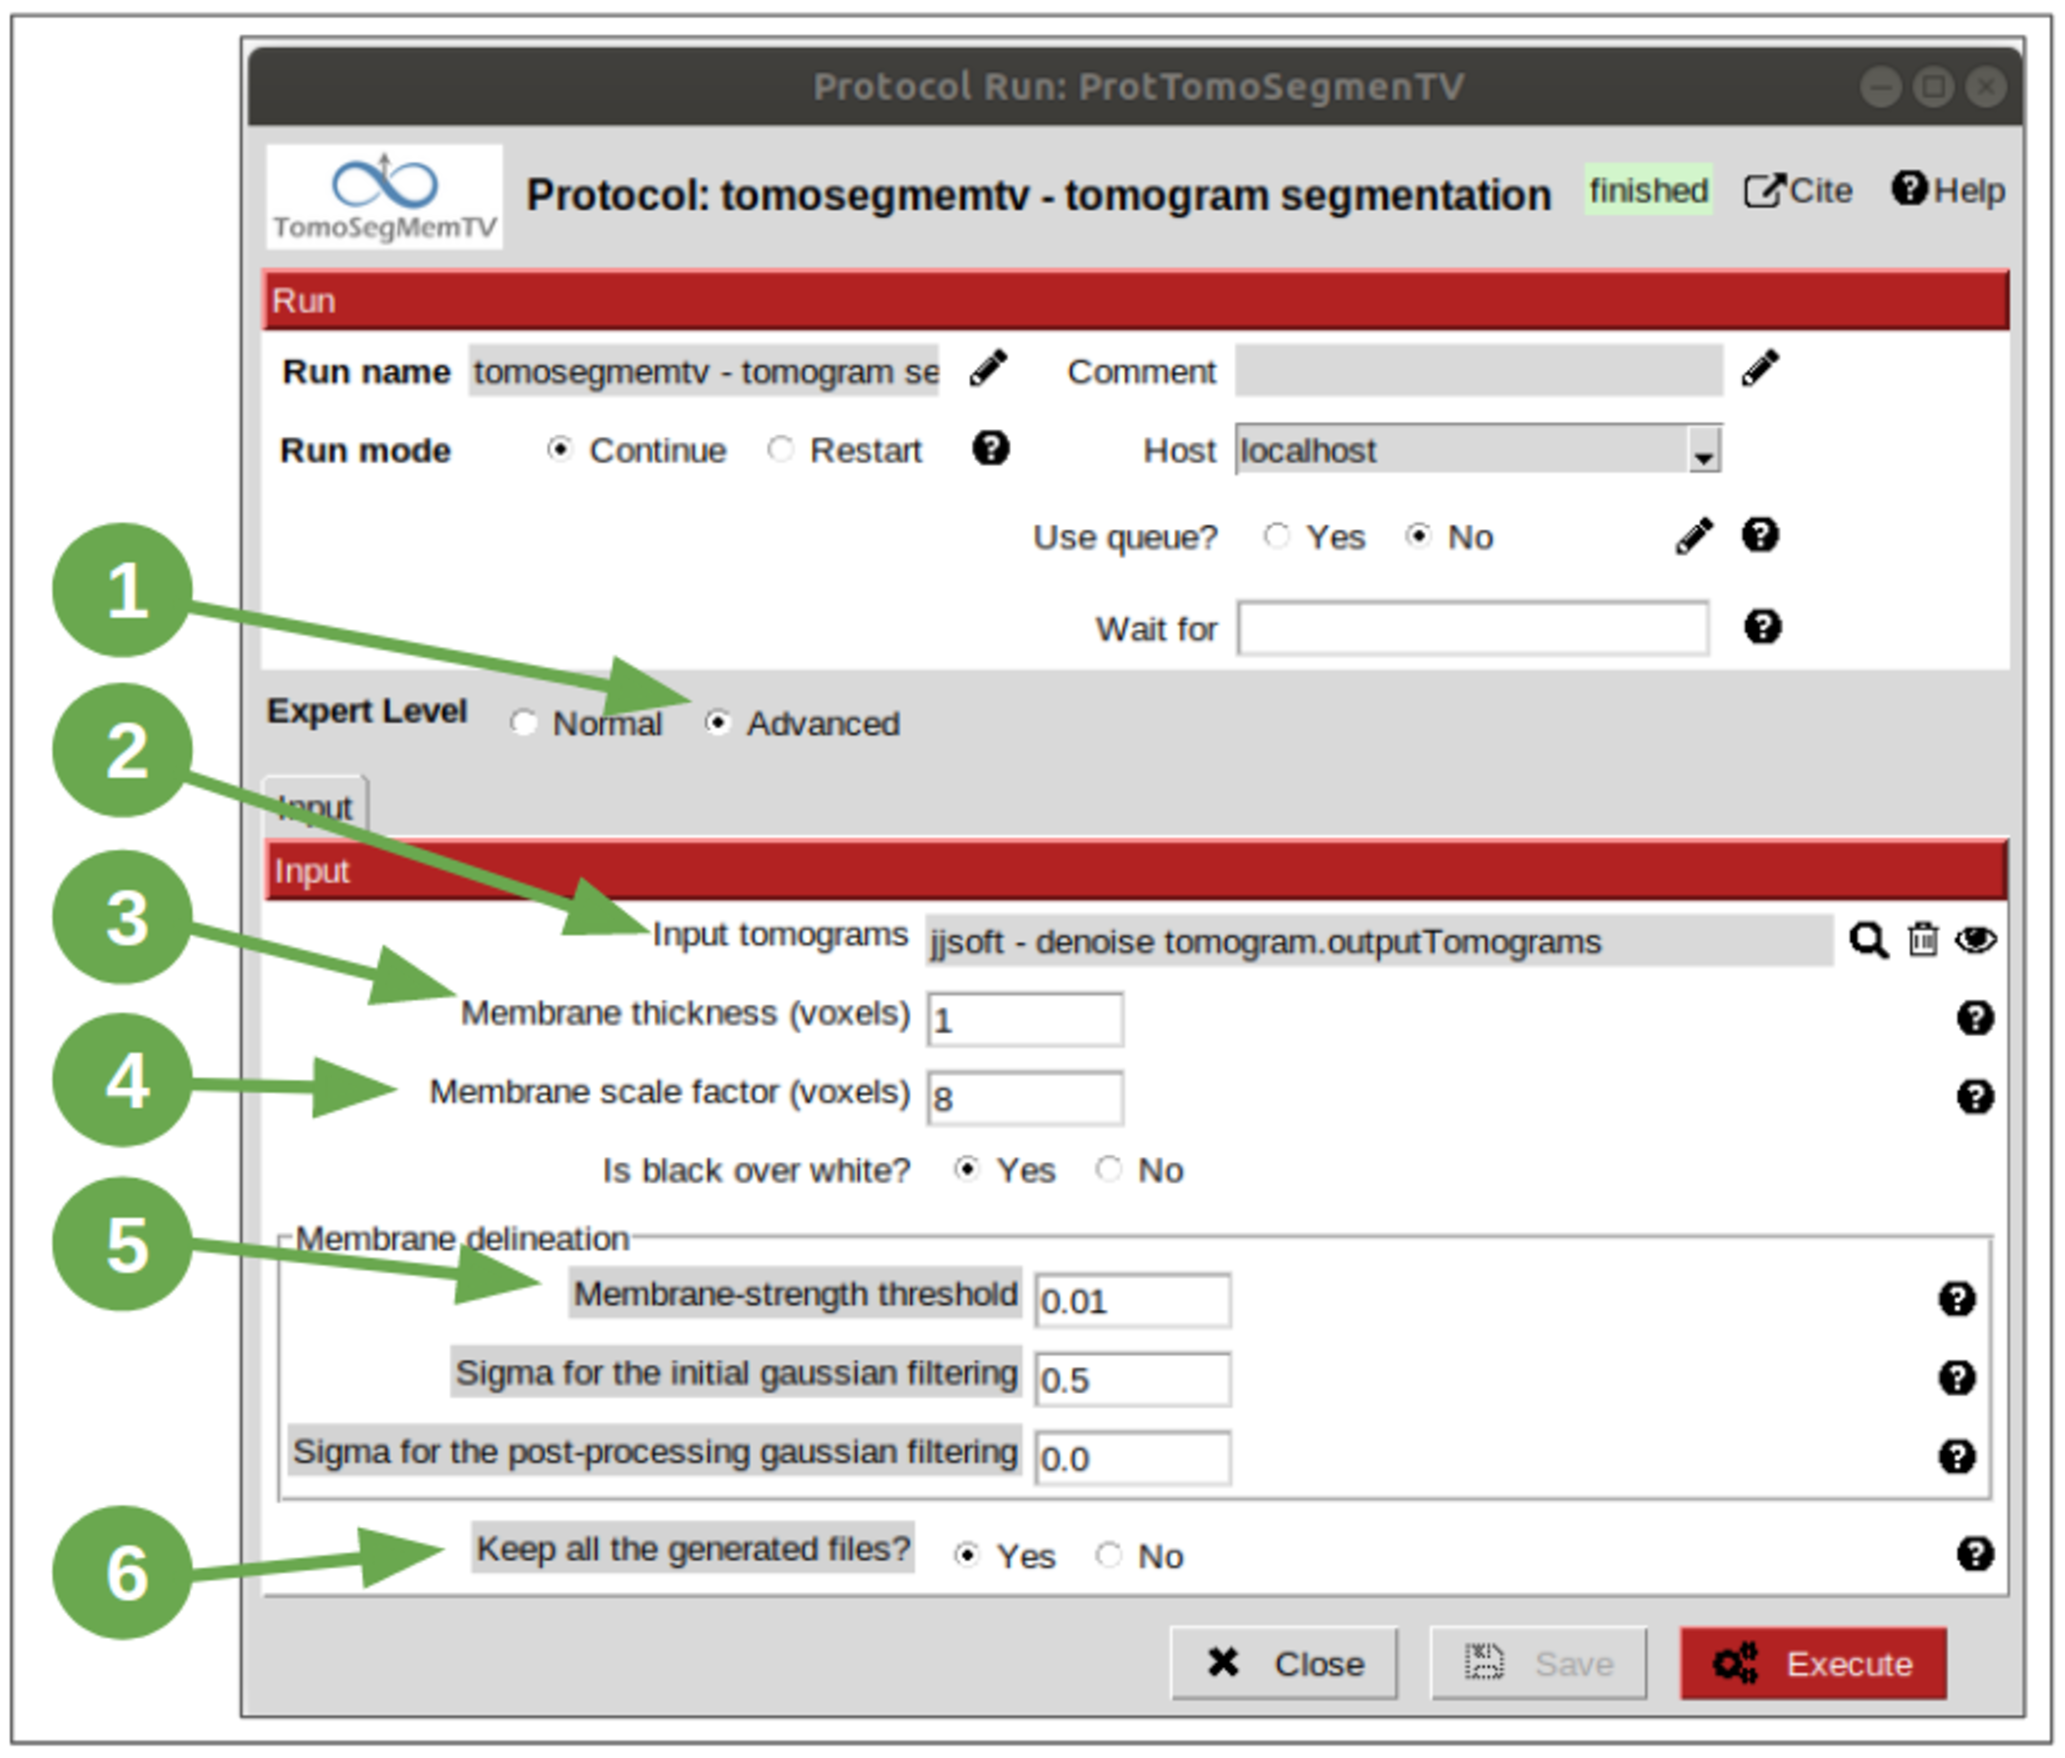
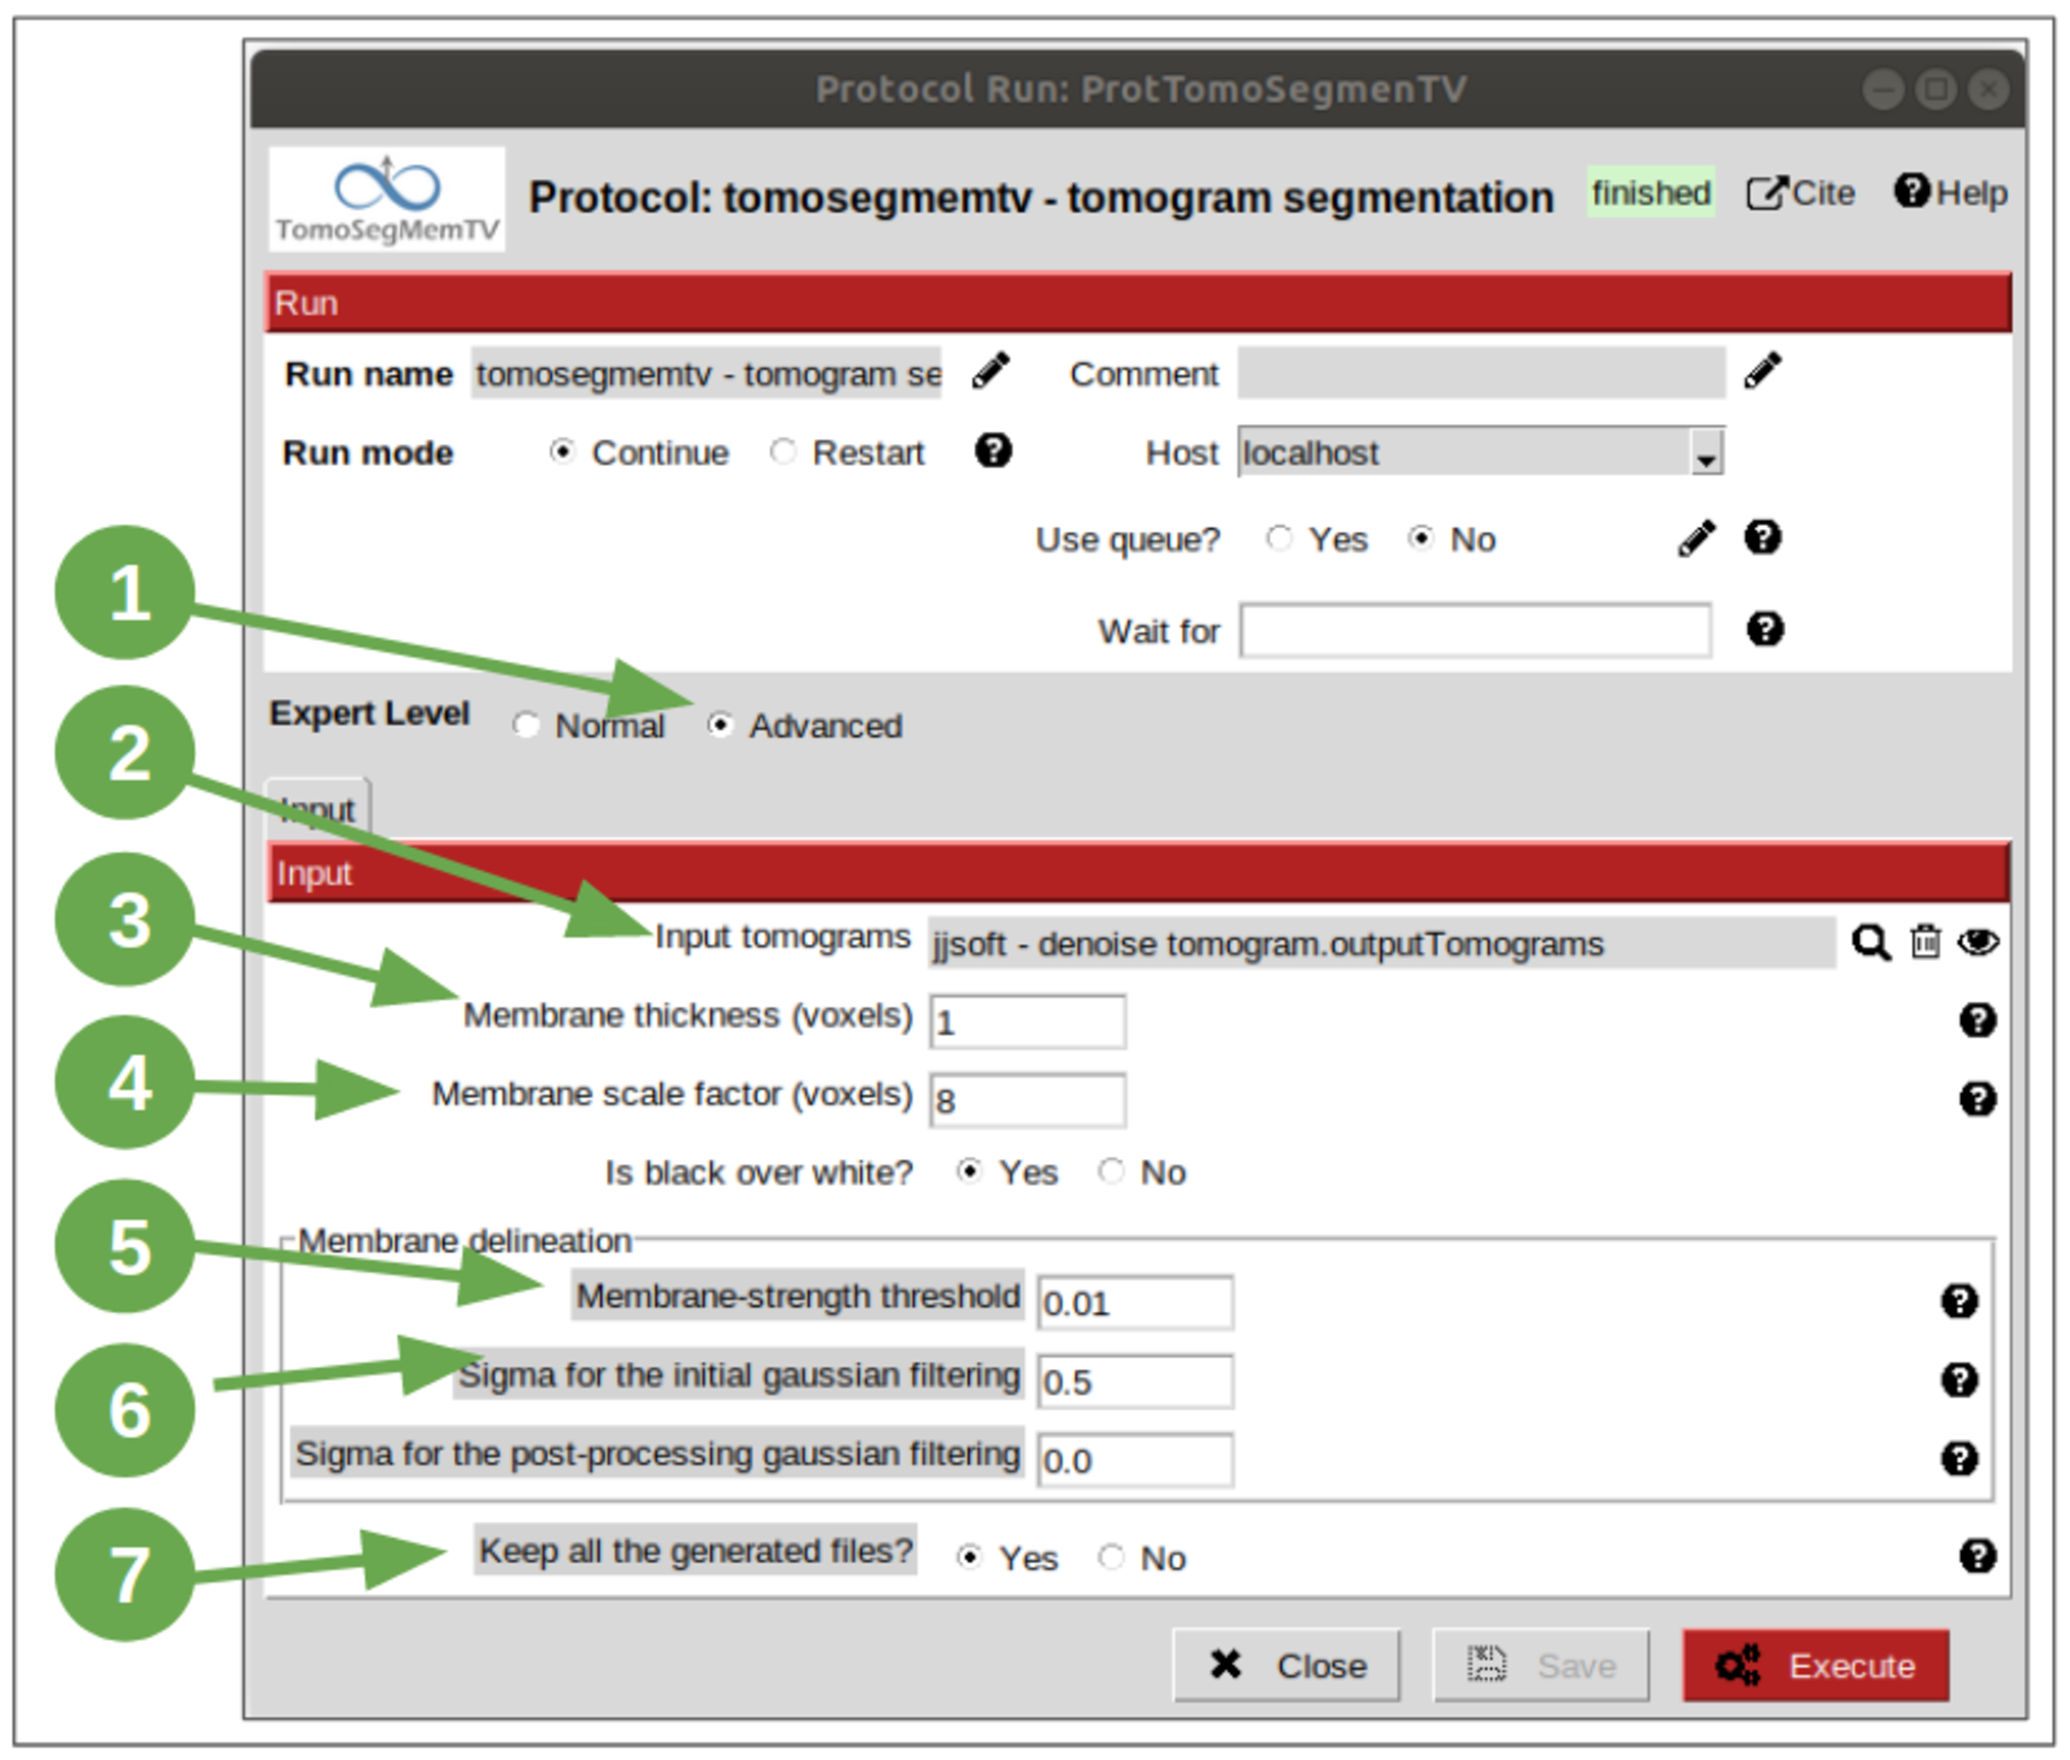
Add check sizes of auto labelling

diff --git a/docs/user/denoising_mbSegmentation_pysegDirPicking/tomosegmemTV_pySeg_workflow.rst b/docs/user/denoising_mbSegmentation_pysegDirPicking/tomosegmemTV_pySeg_workflow.rst
@@ -141,7 +141,7 @@ used to show them.
 
 2. Select the denoised tomogram pointer in field "Input tomograms".
 
-3. Set the "Membrane thickness" parameter to 1 voxel. This is a good and recommended strategy to get the membranes closer
+3. Set the "Membrane thickness" parameter to *1* voxel. This is a good and recommended strategy to get the membranes closer
 to an over-detection scenario than the opposite, which would be the resulting scenario with higher values. In our case,
 this is the best way to proceed, due to the fact that we're going to annotate the membranes in the next step with the
 Membrane Annotator tool, which provides residual structures cleaning tools. Hence, with a low value of this parameter,
@@ -149,19 +149,24 @@ we'll obtain less discontinuities in the membranes, but more false positives. Th
 annotation step in one or two steps per vesicle instead of having to annotate part by part in case of many
 discontinuities. On the other side, the false positives can be easily removed with the annotation tool.
 
-4. Set the parameter "Membrane scale factor" to 8 voxels. This parameter is used to define the effective neighbourhood
+4. Set the parameter "Membrane scale factor" to *8* voxels. This parameter is used to define the effective neighbourhood
 of the membranes considered in the calculations (voting process). Hence, this value is recommended to be low for thin
 membranes and high for thick membranes, and considering the sampling rate of the tomograms whose vesicles are going to
 be segmented.
 
-5. Set the parameter "Membrane strength threshold" to 0.01. This parameter is used to tune the amount of output
+5. Set the parameter "Membrane strength threshold" to *0.01*. This parameter is used to tune the amount of output
 membrane points and remove false positives. Lower values will provide more membrane points, at the risk of generating
 false positives. Thus, this is a critical value when an annotation step is going to be carried out, because a very low
 value will make most of the structures found in the tomogram to be connected, so it won't be possible to annotate them
 separately. On the other hand, higher values will provide a higher probability of the structures to be disconnected,
 but if the value is too high more discontinuities may be present in the structures detected.
 
-6. Set the parameter "Keep all the generated files" to Yes to save all the intermediate results obtained in the
+6. Set the parameter "Sigma for the initial gaussian processing" to *0.5*. The input tomogram is subjected to an
+initial Gaussian filtering aiming at reducing the noise so as to determine the derivatives more robustly. By default,
+a standard deviation of 1.0 voxel is considered. If the membranes are very thin or are very close to each other,
+use lower values (e.g. 0.5).
+
+7. Set the parameter "Keep all the generated files" to *Yes* to save all the intermediate results obtained in the
 different steps carried out internally by tomosegmemTV.
 
 
@@ -265,8 +270,49 @@ to be carried out once all the desired vesicles have been annotated.
 
 11. Data visualization panel.
 
-Thresholding the segmented tomogram
------------------------------------
+Target vesicles
+---------------
+It can be observed that three of the vesicles (squared in the figure below) contain most of the membrane ribosomes.
+These are the ones we're going to annotate.
+
+.. figure:: /docs/user/denoising_mbSegmentation_pysegDirPicking/05_MembranesAnnotator_targets.png
+   :width: 650
+   :alt: Membrane Annotator targets
+
+Density thresholding
+--------------------
+First of all, let's set the density threshold value [2] to *0.05*. This value offers a clean and continuous view of the
+different structures present in the loaded tomogram.
+
+Hint: to get an intuition of how the variations in the density threshold value affects the data, it's very recommendable
+to test different values until a promising visualization is obtained.
+
+.. figure:: /docs/user/denoising_mbSegmentation_pysegDirPicking/05_MembranesAnnotator_thresholding.png
+   :width: 650
+   :alt: Membrane Annotator thresholding
+
+To check the results, click on button "Update Labels" [6]. The result of this operation should look like as the figure
+below. It can be observed that the segmentation and density thresholding values were correctly determined because all
+the target structures present different colors, which means different sizes. In some cases, like in target 1, there are
+two or more different colors (sizes) for the same vesicle, but this is more than normal in the case of our data (in
+situ tomogram). This can be solved annotating the different parts with the same label.
+
+.. figure:: /docs/user/denoising_mbSegmentation_pysegDirPicking/05_MembranesAnnotator_thresholding.png
+   :width: 650
+   :alt: Membrane Annotator thresholding
+
+On the other hand, it's recommendable to check that both parts of target 2 are of the same size. It can be easily done
+with the button "Display Cursor" from panel "Size Thresholding" [6]. The result is that in this case both parts are of
+the same size, which means that most of the whole changing shape through the slices was very well segmented.
+
+Manual annotation of the targets
+--------------------------------
+
+
+
+
+
+
 
 .. _Scipion: http://scipion.i2pc.es/
 .. _scipion-em-tomo: https://github.com/scipion-em/scipion-em-tomo
